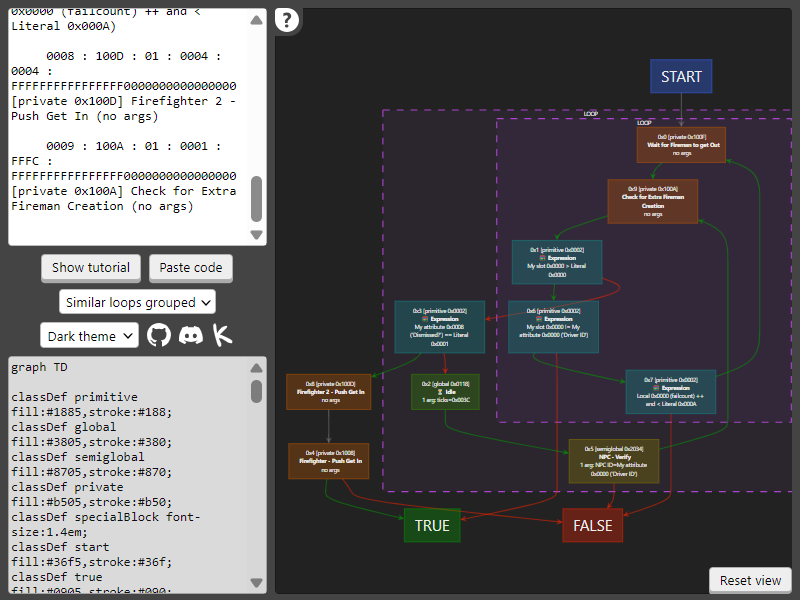
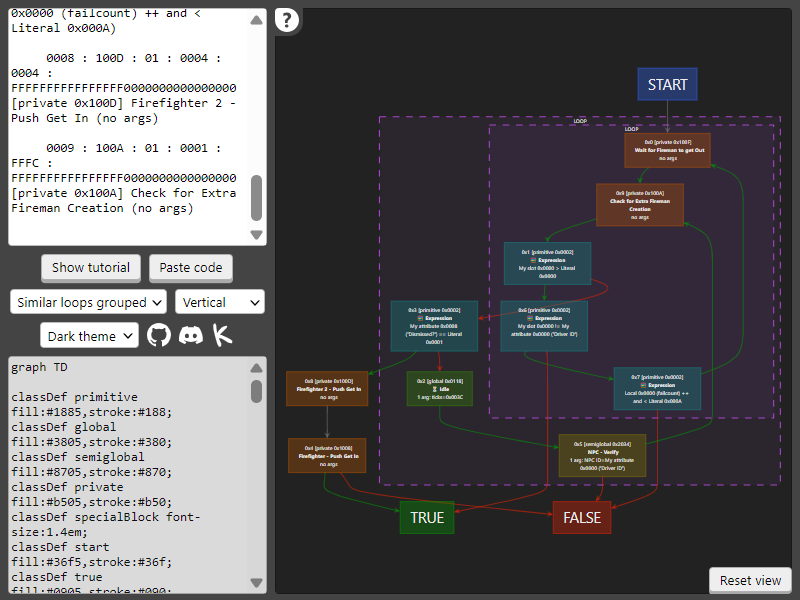
* fix diagram wrapper size * implement diagram flow direction

diff --git a/bhav-to-diagram.html b/bhav-to-diagram.html
@@ -118,16 +118,17 @@
 			border-radius: var(--border-radius);
 		}
 
-		#diagram-wrapper, #diagram-wrapper > svg.flowchart {
-			width: 100%;
-    		height: 100%;
-		}
-
 		#diagram-wrapper {
+			flex: 1 0;
 			overflow: hidden;
 			padding: .5rem;
 			border: var(--border);
 			user-select: none;
+		}
+
+		#diagram-wrapper > svg.flowchart {
+			width: 100%;
+    		height: 100%;
 		}
 
 		#diagram-tooltip {
@@ -159,6 +160,10 @@
 				<option value="1">Outer loops only</option>
 				<option value="2" selected>Similar loops grouped</option>
 				<option value="3">Detailed loops</option>
+			</select>
+			<select id="direction-select" title="Change the diagram flow direction">
+				<option value="TD" selected>Vertical</option>
+				<option value="LR">Horizontal</option>
 			</select>
 			<select id="theme-select" title="Change the theme of the diagram">
 				<option value="light">Light theme</option>
@@ -196,8 +201,9 @@
 
 	<script>
 	const inputArea = document.getElementById("input-code");
-	const themeSelect = document.getElementById("theme-select");
 	const loopHandlingSelect = document.getElementById("loop-handling-select");
+	const directionSelect = document.getElementById("direction-select");
+	const themeSelect = document.getElementById("theme-select");
 	const pasteButton = document.getElementById("paste-button");
 	const tutorialButton = document.getElementById("tutorial-button");
 	const outputArea = document.getElementById("output-code");
@@ -206,8 +212,9 @@
 	const diagramResetViewButton = document.getElementById("diagram-reset-view-button");
 
 	inputArea.addEventListener('input', debounce(() => handleInput(inputArea.value), 500));
-	themeSelect.addEventListener('change', () => setTheme());
 	loopHandlingSelect.addEventListener('change', () => handleInput(inputArea.value));
+	directionSelect.addEventListener('change', () => handleInput(inputArea.value));
+	themeSelect.addEventListener('change', () => setTheme());
 	pasteButton.addEventListener('click', () => pasteClipboardIntoInput());
 	tutorialButton.addEventListener('click', () => showTutorial());
 	diagramResetViewButton.addEventListener('click', () => resetView());
@@ -236,7 +243,7 @@
 		try {
 			let bhavBlocks = BhavBlock.getBlocksFromSimPeText(input);
 			let bhavBlockHierarchies = BhavBlockHierarchy.getBlockHierarchies(bhavBlocks, {	loopHandling: Number(loopHandlingSelect.value) });
-			let mermaidCode = MermaidGraphCodeBuilder.getCodeFromBlockHierarchies(bhavBlockHierarchies);
+			let mermaidCode = MermaidGraphCodeBuilder.getCodeFromBlockHierarchies(bhavBlockHierarchies, directionSelect.value);
 			outputArea.value = mermaidCode;
 
 			setupDiagram(mermaidCode);
@@ -759,11 +766,16 @@ in the Plugin View)
 	/* Graph builder */
 
 	class MermaidGraphCodeBuilder {
-		static getCodeFromBlockHierarchies(blockHierarchies) {
-			if (blockHierarchies.length === 0)
-				return 'graph TD';
+		static flowDirections = ['TD', 'LR'];
 
-			let code = 'graph TD\r\n'
+		static getCodeFromBlockHierarchies(blockHierarchies, flowDirection = this.directions[0]) {
+			if (this.flowDirections.includes(flowDirection) === false)
+				throw new Error(`Unknown flow direction setting: '${flowDirection}'`);
+
+			if (blockHierarchies.length === 0)
+				return '';
+
+			let code = `graph ${flowDirection}\r\n`
 				+ '\r\nclassDef primitive fill:#1885,stroke:#188;'
 				+ '\r\nclassDef global fill:#3805,stroke:#380;'
 				+ '\r\nclassDef semiglobal fill:#8705,stroke:#870;'
